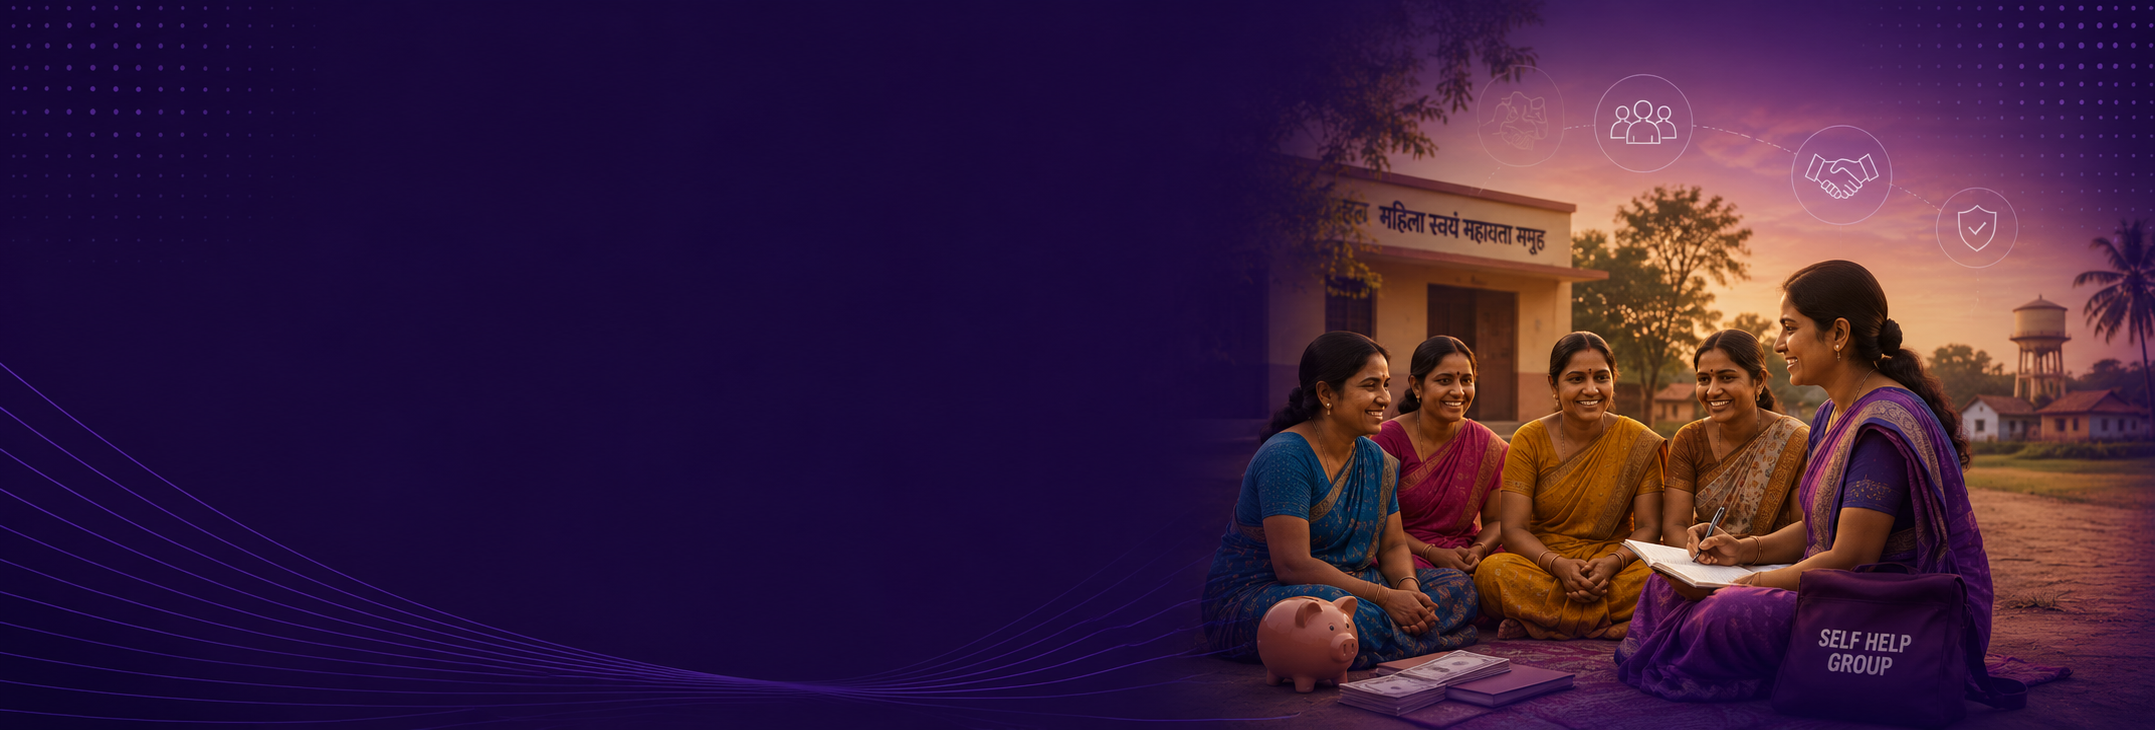
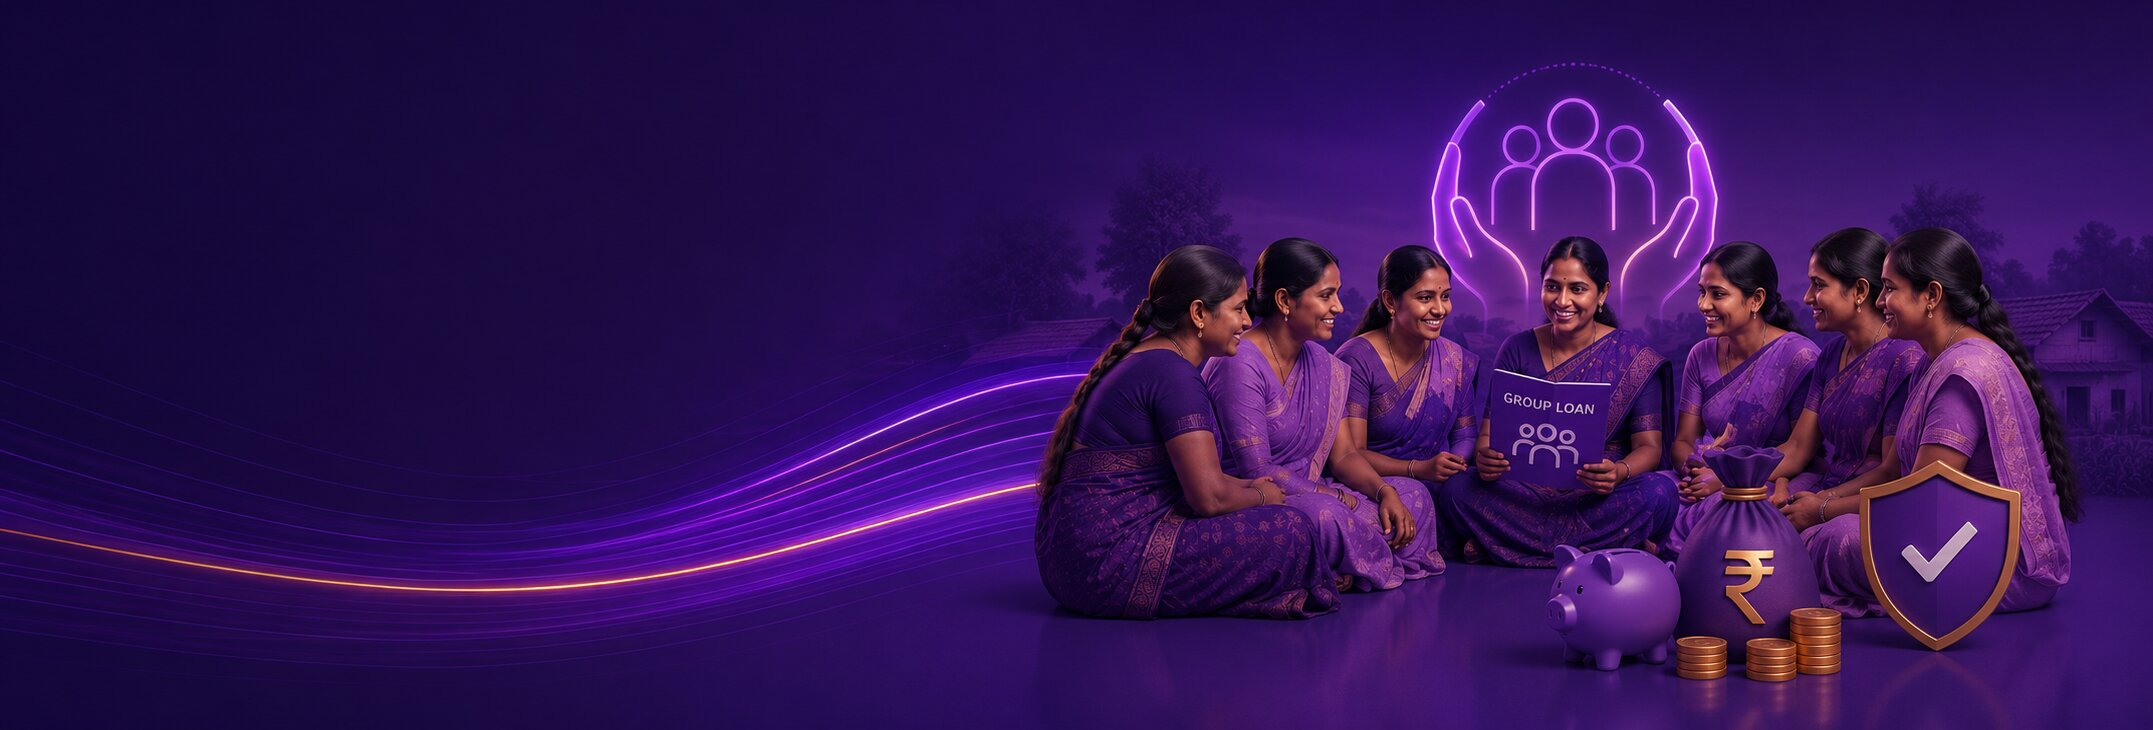
Updated contact page

diff --git a/service-detail.js b/service-detail.js
@@ -17,7 +17,7 @@ function getServiceId() {
 function serviceDetailHTML(service) {
   const related = SERVICES.filter((s) => s.id !== service.id).slice(0, 4);
   return `
-    <section class="service-hero" style="background-image: linear-gradient(rgba(36,18,70,0.55), rgba(36,18,70,0.72)), url('images/service-hero/${service.id}.jpg'); background-size: cover; background-position: center;">
+    <section class="service-hero" style="background-image: linear-gradient(rgba(36,18,70,0.3), rgba(36,18,70,0.45)), url('images/service-hero/${service.id}.jpg'); background-size: cover; background-position: center;">
       <div class="container">
         <a class="breadcrumb" href="services.html">Services</a>
         <span class="breadcrumb-sep">/</span>